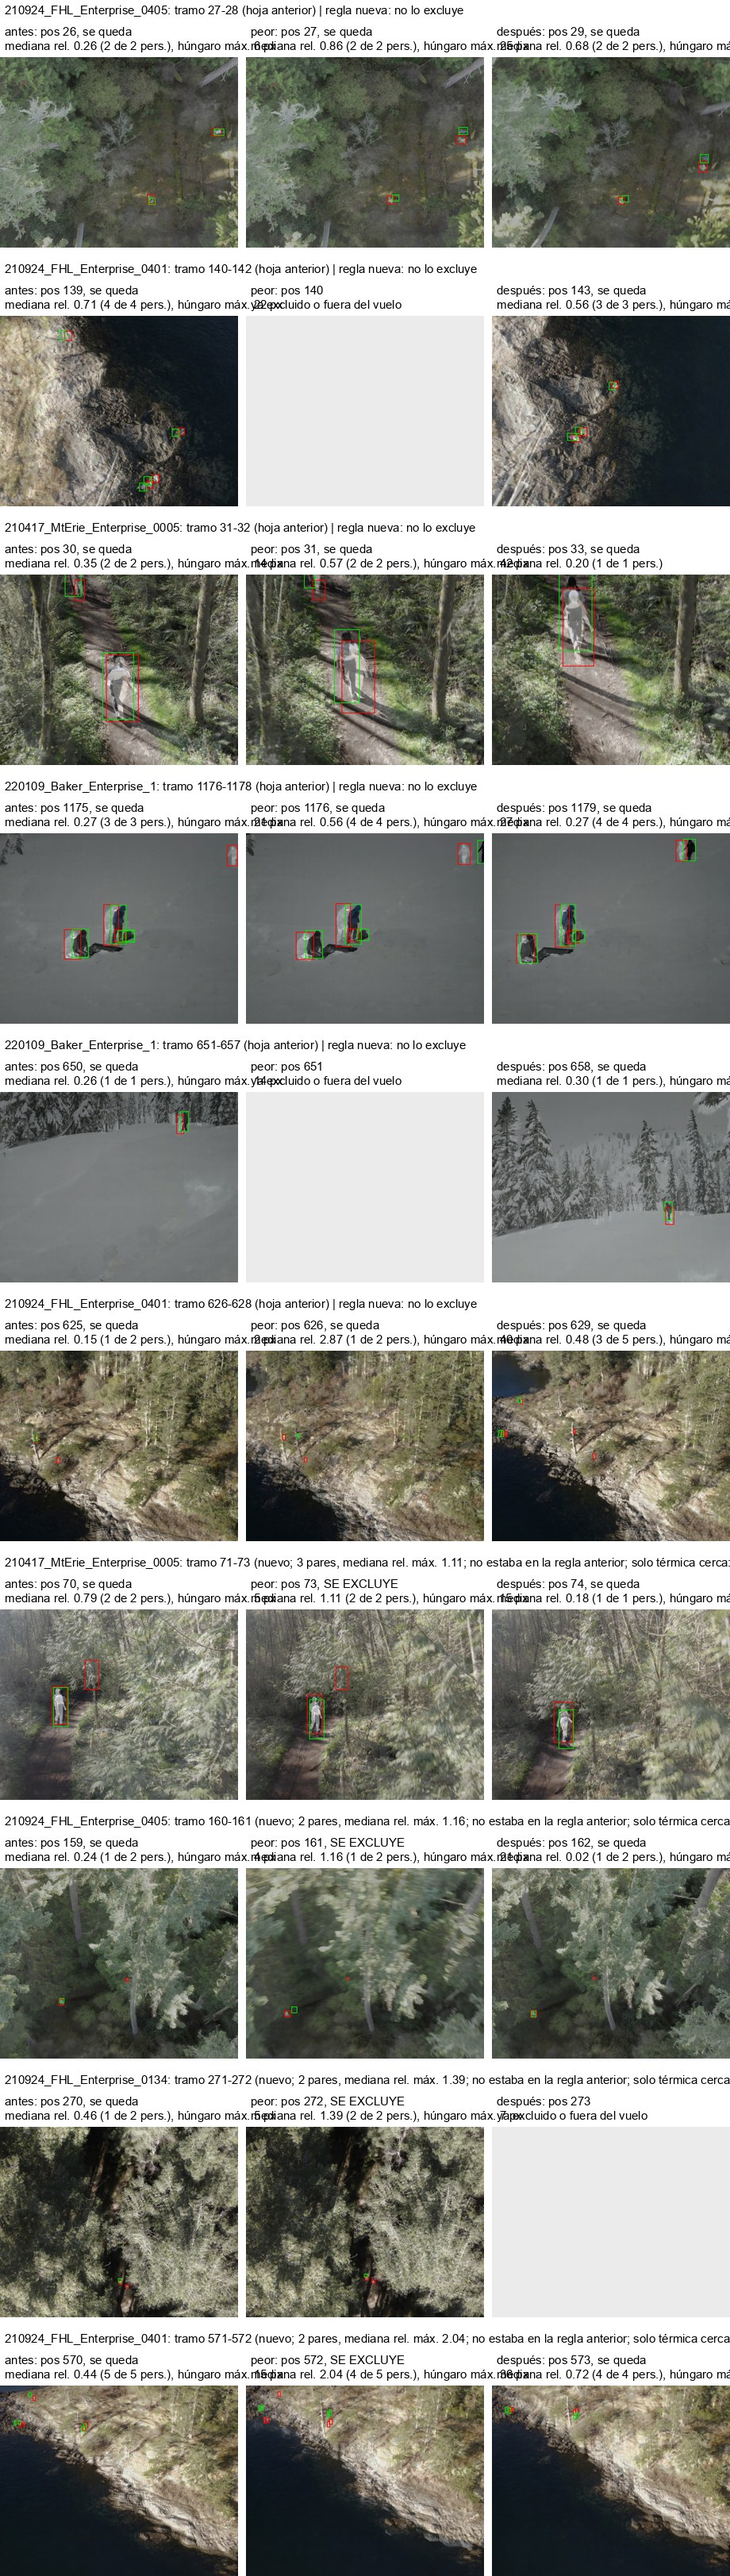
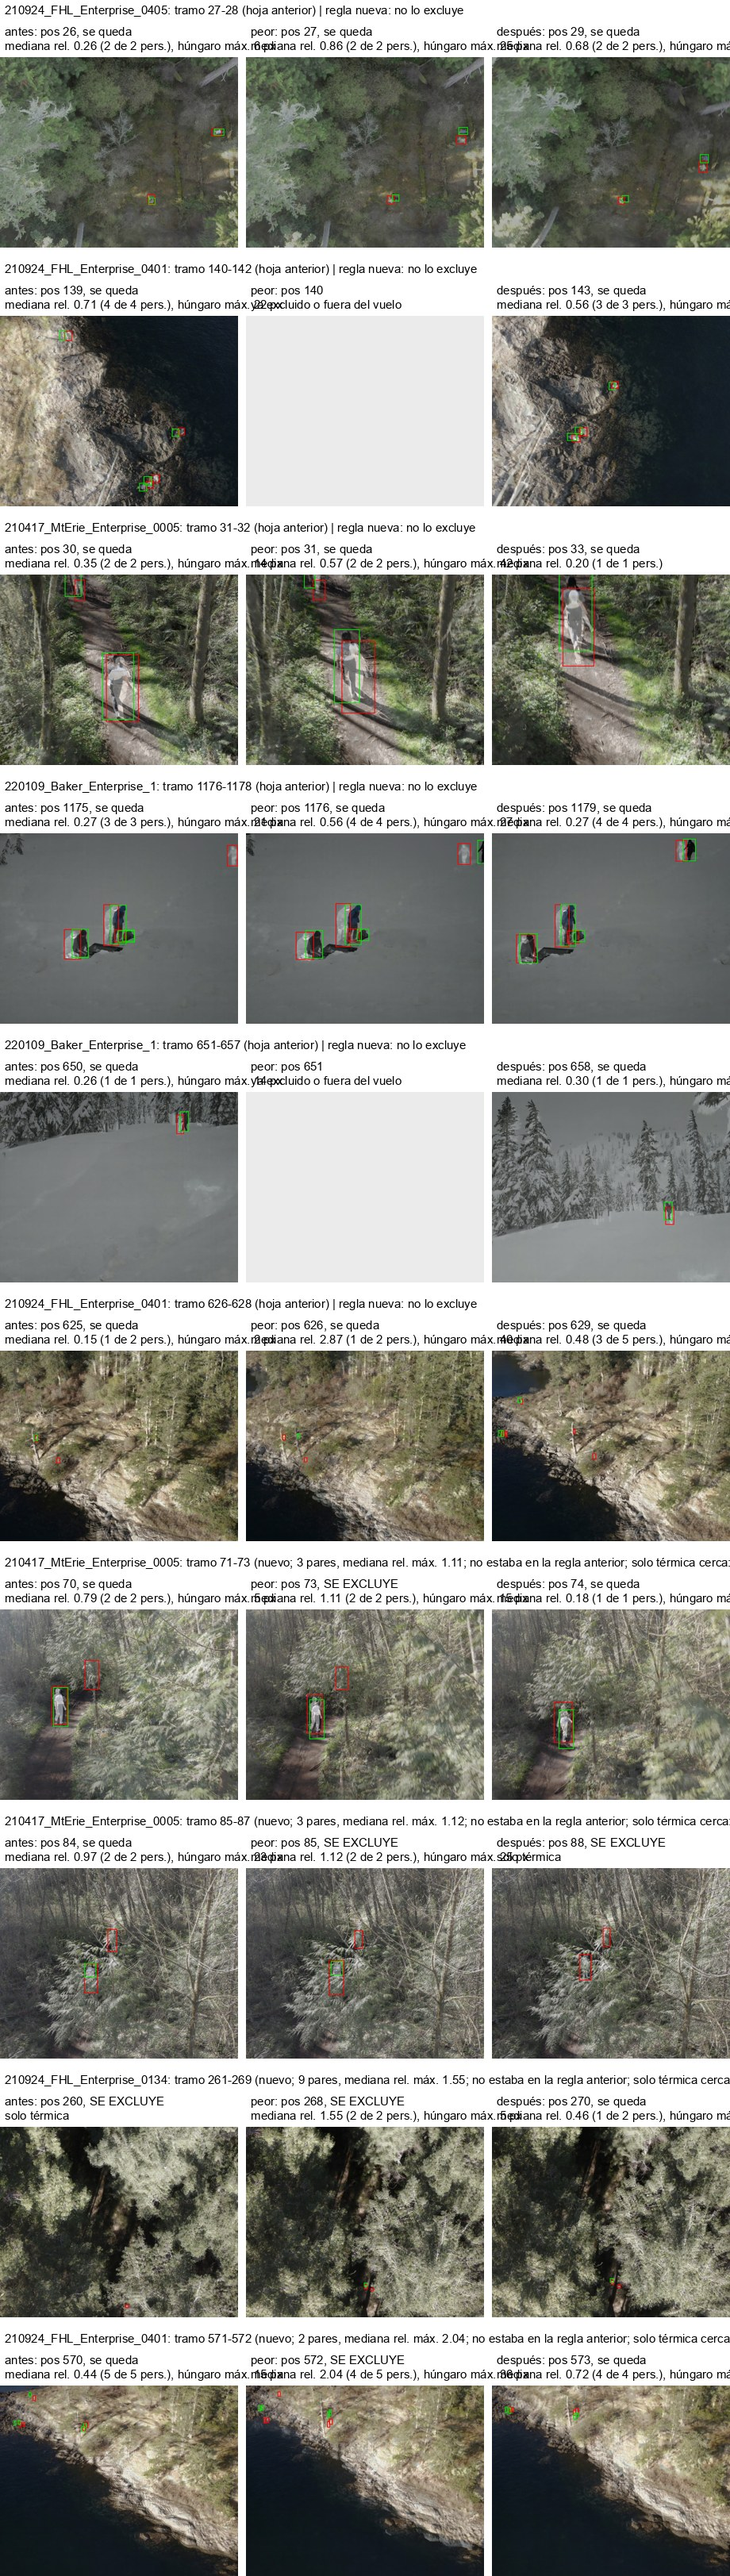
Fase 2: cierre de desfases (4 617 pares); MtErie 0005 207 y FHL 0405 160-161
- MtErie 0005 207 se excluye a mano en configs/fase1.yaml: fondo corrido +99 px
  (respuesta 0.02, no fiable), junto a la extensión 208 y al tramo 209-211.
- FHL 0405 160-161, revisado a ojo: el fondo de la mitad derecha se corre
  (+9, +8) y (+17, +8) px frente a (-5, -2) en los vecinos, y los bordes de los
  árboles salen dobles. Va en tramos_adicionales de configs/revision_desfases.yaml.
  No se extiende y no tiene "solo térmica" cerca.
- tramos_adicionales acepta un campo "origen" para el motivo de la exclusión.
- La semejanza sigue congelada: homografias_cajas.yaml no cambia (mismo md5).
- Salen 158 pares por desfase. Quedan 4 617 pares anotados (471 "solo
  térmica"); en FHL 0405 quedan 928 (salen 15) y conserva sus 394 "solo térmica".

Changed region(s): [[0.0, 0.6845, 1.0, 0.9023]]

diff --git a/scripts/fase2_revision_desfases.py b/scripts/fase2_revision_desfases.py
@@ -293,6 +293,7 @@ def aplicar(cfg, c, cr, rutas, carpeta):
         adic.append({"tramo": int(tr.tramo.max()) + i + 1, "vuelo": a["vuelo"], "desde": a["desde"],
                      "hasta": a["hasta"], "pares": a["hasta"] - a["desde"] + 1, "tipo": "adicional", "revisar": True,
                      "decision": a["decision"], "motivo": a["motivo"],
+                     "origen": a.get("origen", "regla relativa, tras volver a estimar la semejanza"),
                      "posiciones_solo_termica": " ".join(map(str, vecinos_solo_termica(a["vuelo"], a["desde"],
                                                                                          a["hasta"], set())))})
     tr = pd.concat([tr, pd.DataFrame(adic)], ignore_index=True) if adic else tr
@@ -308,7 +309,7 @@ def aplicar(cfg, c, cr, rutas, carpeta):
             continue
         base = {"carpeta_rgb": carpetas.loc[t.vuelo, "carpeta_rgb"],
                 "carpeta_termica": carpetas.loc[t.vuelo, "carpeta_termica"]}
-        origen = "regla relativa" if t.tipo != "adicional" else "regla relativa, tras volver a estimar la semejanza"
+        origen = "regla relativa" if t.tipo != "adicional" else t.origen
         exclusiones.append({**base, "desde": int(t.desde), "hasta": int(t.hasta),
                             "motivo": f"desfase entre cámaras ({origen}, {t.tipo}): {t.motivo}"})
         exclusiones += [{**base, "desde": p, "hasta": p,

diff --git a/reports/fase1.md b/reports/fase1.md
@@ -28,11 +28,14 @@ etiquetas, no imágenes.
   - Desfases entre cámaras (la térmica muestra otro instante) medidos con la distancia entre centros de las personas
     tras la alineación de la fase 2: MtErie 0005 (160 a 162) y Baker (620 a 626), en giros rápidos. El inicio de
     MtErie 0003 (0 a 11) se excluyó y se devolvió el mismo día: el desfase venía de la homografía.
-  - Desfases de la fase 2 (2026-10-31), 155 pares:
+  - MtErie 0005 207, puesto a mano al cerrar los desfases: fondo corrido +99 px (medida no fiable), junto a la
+    extensión 208 y al tramo 209–211.
+  - Desfases de la fase 2 (2026-10-31), 157 pares:
     - 135 de la regla relativa: 41 tramos (133 pares) y 2 pares "solo térmica" vecinos. 4 tramos salen sin revisión y
       37 tras revisarlos a ojo; otros 4 se revisaron y se conservan.
     - 2 de FHL 0401 371–372.
     - 18 de la extensión de los tramos por el fondo corrido más de 20 px.
+    - 2 de FHL 0405 160–161, revisado a ojo al cerrar los desfases (fondo corrido).
 
     Están en `configs/exclusiones_desfase.yaml`, que se genera desde `configs/revision_desfases.yaml` y que
     `configs/fase1.yaml` lee en `exclusiones_adicionales` (ver `reports/fase2.md`).
@@ -49,16 +52,17 @@ etiquetas, no imágenes.
 | Pares anotados tras excluir despegues, aterrizajes y cambios de zoom (aterrizaje desde 878) | 4 806 | 4 806 | 0 |
 | Pares anotados tras adelantar el aterrizaje a 857 y excluir los desfases de los giros | 4 775 | 4 775 | 0 |
 | Pares anotados tras excluir los desfases de la regla relativa (revisados a ojo) | 4 640 | 4 640 | 0 |
-| Pares anotados tras excluir FHL 0401 371–372 y la extensión por el fondo | **4 620** | 4 620 | 0 |
+| Pares anotados tras excluir FHL 0401 371–372 y la extensión por el fondo | 4 620 | 4 620 | 0 |
+| Pares anotados tras cerrar los desfases (MtErie 0005 207 y FHL 0405 160–161) | **4 617** | 4 617 | 0 |
 | Pares con persona solo en la térmica (tras todas las exclusiones) | **471** | | |
 
 - 80 carpetas, 17 parejas de carpetas. **8 de ellas están anotadas** (4 sitios); las otras 9 tienen al menos una de
   las dos carpetas sin `.txt`, y aportan los 9 100 pares sin anotar.
-- Las exclusiones afectan a 1 119 pares:
+- Las exclusiones afectan a 1 122 pares:
   - 149 del final de Baker y 739 de Carnation;
   - 16 del despegue de Baker y 50 de FHL 0401 (11 del cambio de zoom y 39 del aterrizaje);
-  - 10 de desfases en giros (MtErie 0005 3, Baker 7);
-  - 155 de los desfases de la fase 2 (MtErie 0003 28, MtErie 0005 11, MtErie 0007 3, FHL 0401 63, FHL 0405 13,
+  - 11 de desfases puestos a mano (MtErie 0005 160–162 y 207, Baker 620–626);
+  - 157 de los desfases de la fase 2 (MtErie 0003 28, MtErie 0005 11, MtErie 0007 3, FHL 0401 63, FHL 0405 15,
     Baker 37).
 - No hay líneas de etiqueta mal formadas (5 campos, clase 0) en ninguna de las 17 parejas.
 
@@ -70,14 +74,14 @@ en la térmica y ninguna en la RGB, contado sobre los pares anotados no excluido
 | Vuelo | Sitio | Pares anotados | Excluidos | Anotados tras las exclusiones | Solo térmica |
 |---|---|---:|---:|---:|---:|
 | MtErie 0003/0004 | MtErie | 264 | 28 | 236 | 0 |
-| MtErie 0005/0006 | MtErie | 272 | 14 | 258 | 8 |
+| MtErie 0005/0006 | MtErie | 272 | 15 | 257 | 8 |
 | MtErie 0007/0008 | MtErie | 172 | 3 | 169 | 7 |
 | Carnation 0023/0024 | Carnation | 739 | **739** | 0 | 0 |
 | FHL 0134/0135 | FHL | 273 | 0 | 273 | 61 |
 | FHL 0401/0402 | FHL | 896 | 113 | 783 | 0 |
-| FHL 0405/0406 | FHL | 943 | 13 | 930 | **394** |
+| FHL 0405/0406 | FHL | 943 | 15 | 928 | **394** |
 | Baker VIS_1/IR_1 | Baker | 2 180 | 209 | 1 971 | 1 |
-| **Total** | | **5 739** | **1 119** | **4 620** | **471** |
+| **Total** | | **5 739** | **1 122** | **4 617** | **471** |
 
 En estos 8 vuelos todos los pares están anotados (pares = pares anotados). Carnation queda en la tabla con todos sus
 pares excluidos. FHL reúne 455 de los 471 pares "solo térmica" (97 %), 394 de ellos en FHL 0405/0406. Los 3 pares

diff --git a/CLAUDE.md b/CLAUDE.md
@@ -73,8 +73,11 @@ cámara, cuando la vegetación tapa más del 70 % del cuerpo?
     18 pares; las extensiones de FHL 0405 y MtErie 0005 se revisaron a ojo.
   - Decisiones en `configs/revision_desfases.yaml`; las exclusiones generadas, en `configs/exclusiones_desfase.yaml`
     (`exclusiones_adicionales` de `configs/fase1.yaml`).
-  - En total salen 155 pares por desfase. **Quedan 4 620 pares anotados** en 7 parejas de vuelos de 3 sitios
-    (MtErie, FHL, Baker); 471 de ellos con persona solo en la térmica. FHL 0405: 930 (salen 13), con sus 394 "solo
+  - **Al cerrar:** se excluye a mano **MtErie 0005 207** (fondo +99 px, en `exclusiones` de `configs/fase1.yaml`) y,
+    tras revisarlo a ojo, **FHL 0405 160–161** (fondo corrido; en `tramos_adicionales`). El resto de "Lo que queda
+    sin excluir" se queda.
+  - En total salen 158 pares por desfase. **Quedan 4 617 pares anotados** en 7 parejas de vuelos de 3 sitios
+    (MtErie, FHL, Baker); 471 de ellos con persona solo en la térmica. FHL 0405: 928 (salen 15), con sus 394 "solo
     térmica". Lo que queda sin excluir está en `reports/fase2.md`, "Lo que queda sin excluir".
 - La térmica ve aproximadamente la franja central de la RGB (x de 0.18 a 0.84, y de 0.06 a 0.98; cerca del 60 % del
   área), salvo en **Carnation 0023/0024**, donde la RGB tiene zoom y la relación se invierte.
